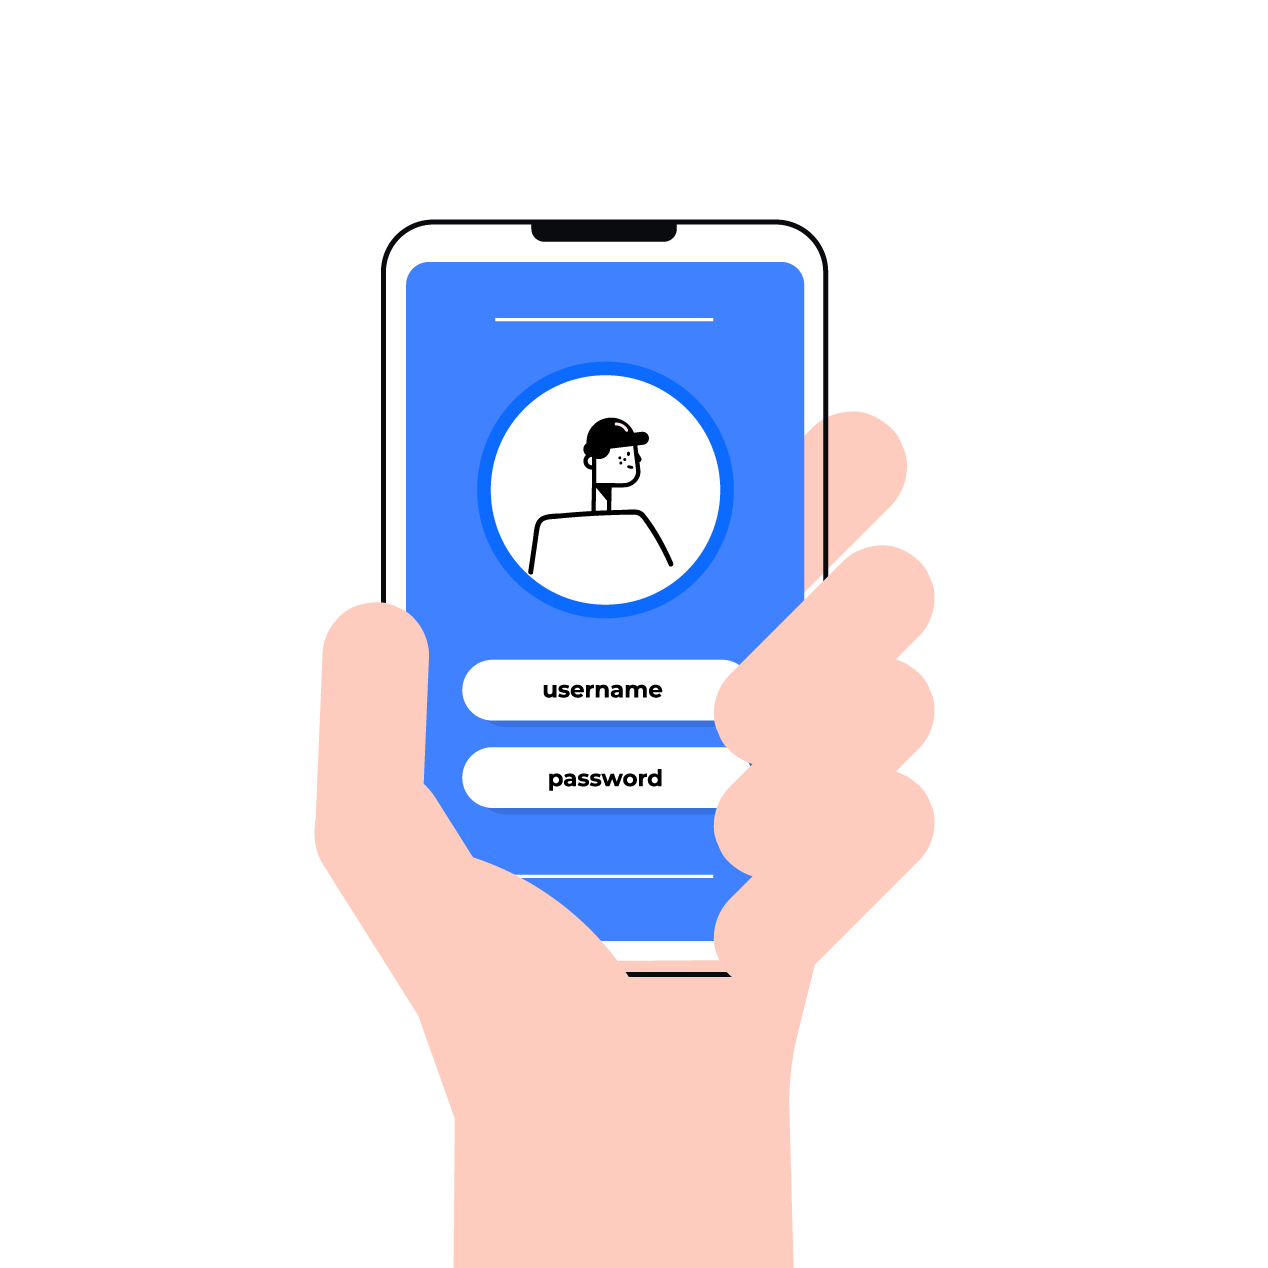
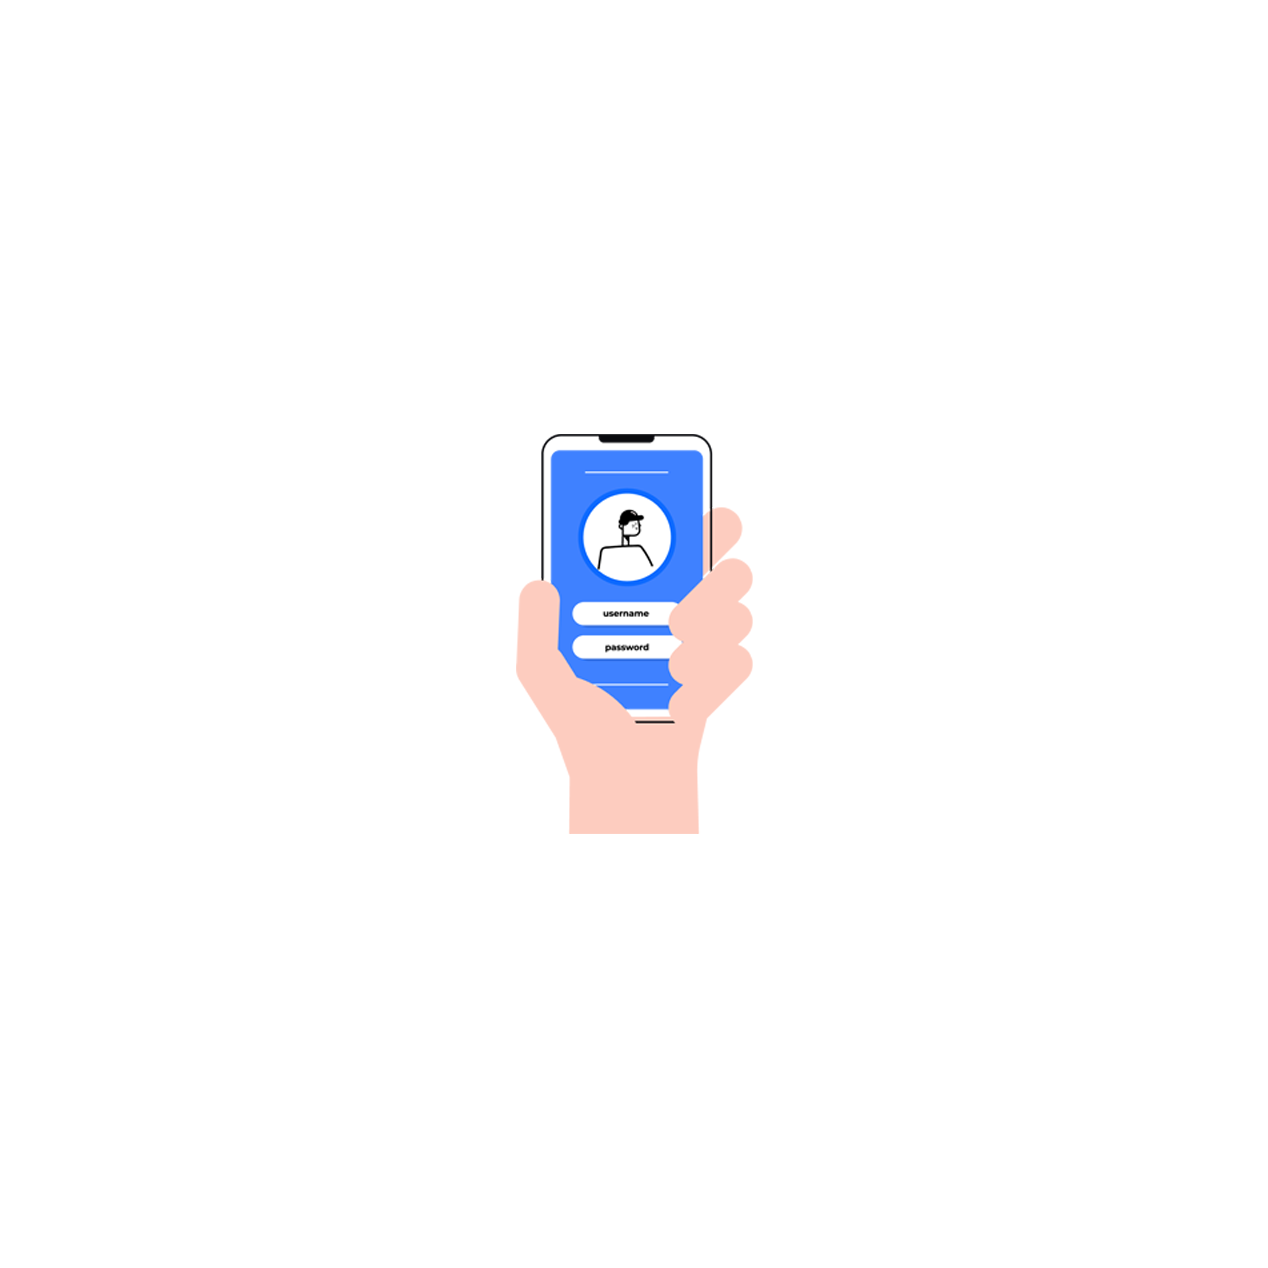
Update Scale and Scenes (design)

Changed region(s): [[0.2461, 0.1538, 0.7382, 1.0]]

diff --git a/login.py b/login.py
@@ -25,7 +25,7 @@ class Application():
 
     def login_screen():
         # img box-selector
-        img = PhotoImage(file="images/scene-3.png")
+        img = PhotoImage(file="images/scene-4.png")
         Label_img = ctk.CTkButton(master=window, image=img, text=None, hover=None, fg_color='transparent')
         Label_img.place(x=-580, y=-160)
         Label_img.configure(text='')
